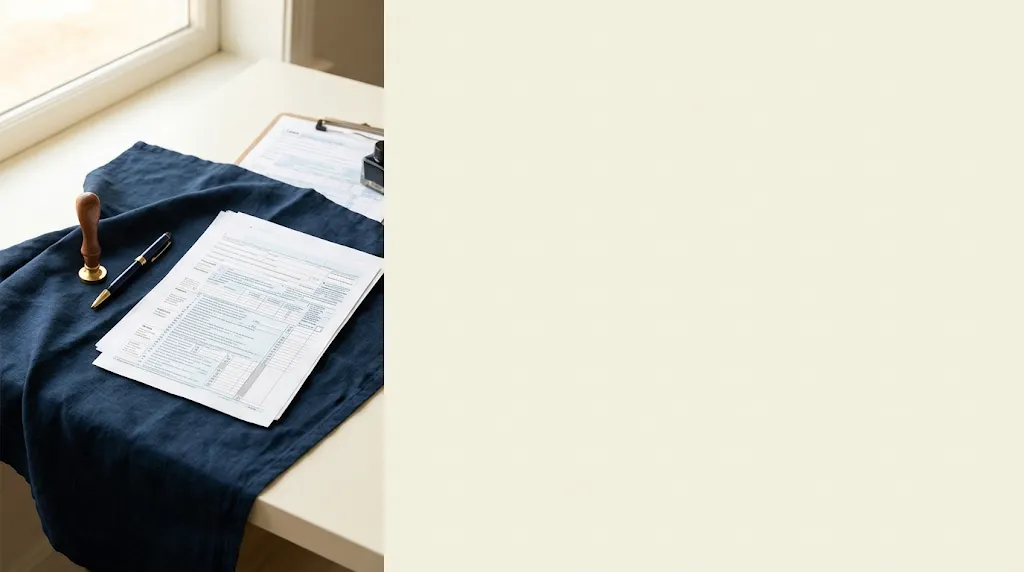
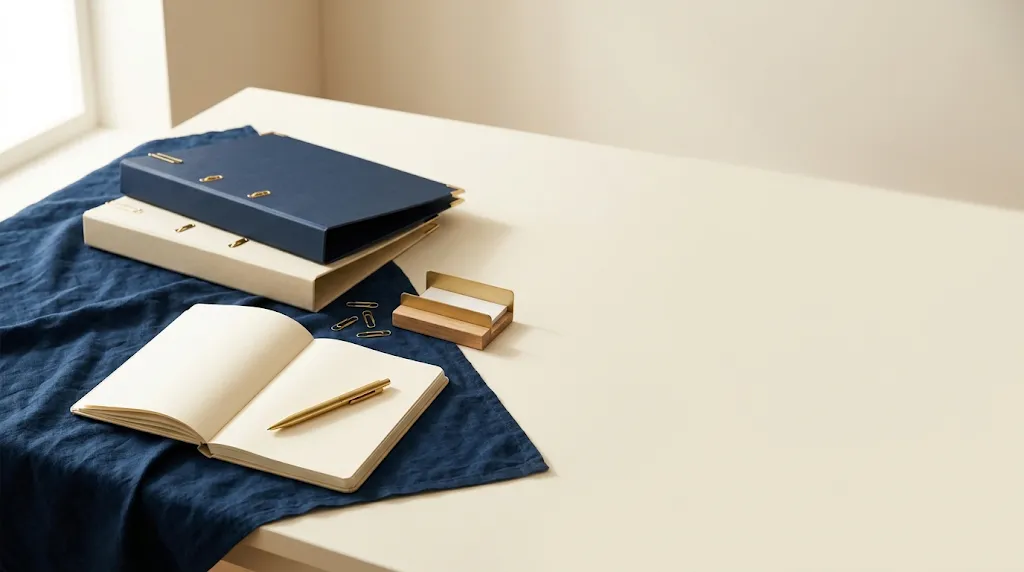
Servicios: título en una línea en escritorio y nueva imagen de Tributario

diff --git a/src/app/shared/ui/section-header/section-header.scss b/src/app/shared/ui/section-header/section-header.scss
@@ -2,7 +2,7 @@
   display: flex;
   flex-direction: column;
   gap: var(--space-3);
-  max-width: 680px;
+  max-width: var(--section-header-max, 680px);
   margin-bottom: var(--section-header-gap, var(--space-5));
 }
 

diff --git a/src/app/sections/services/services.scss b/src/app/sections/services/services.scss
@@ -1,3 +1,8 @@
+// Título de la sección en una sola línea en escritorio (pedido del usuario).
+app-section-header {
+  --section-header-max: 900px;
+}
+
 // ---------- Carrusel ----------
 
 .carousel {
